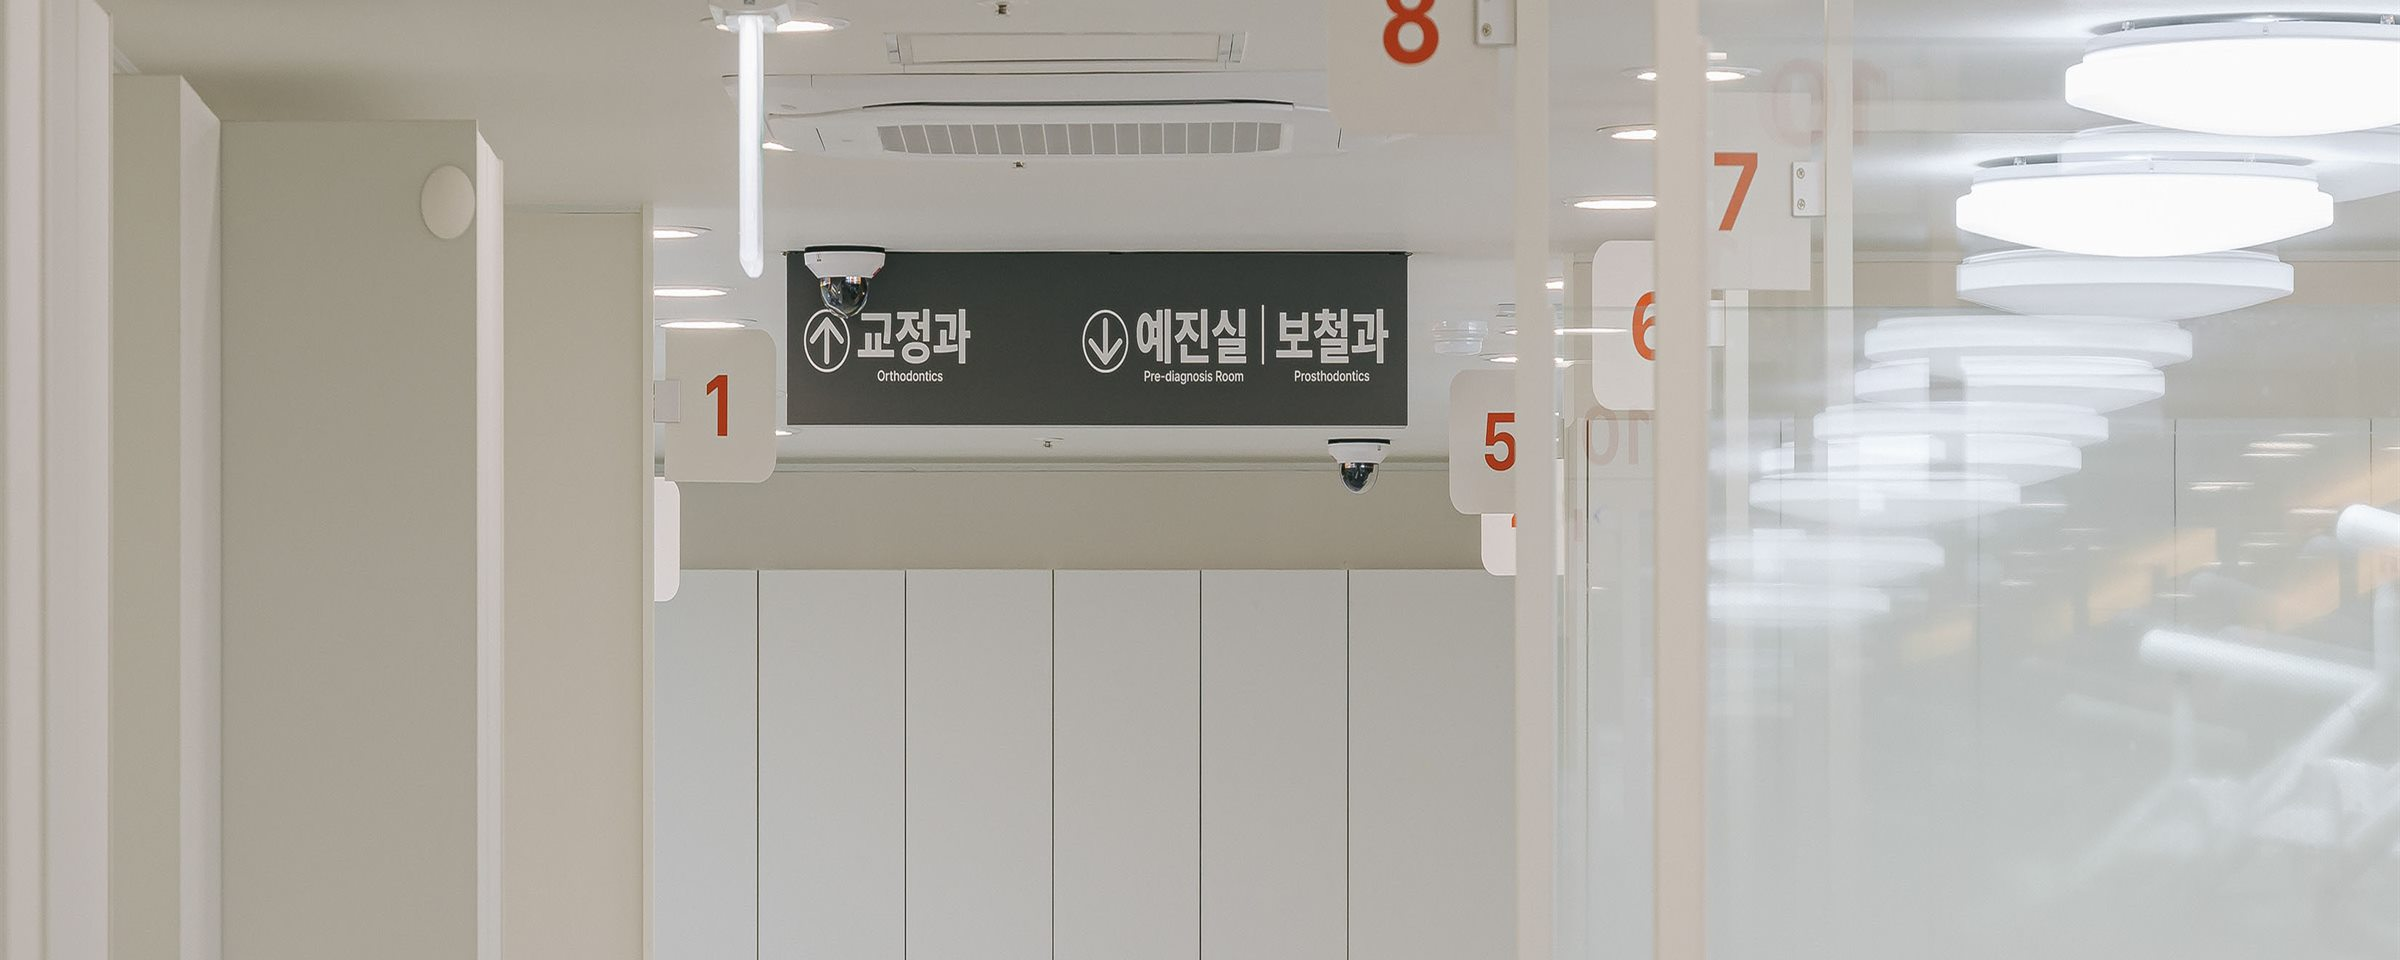
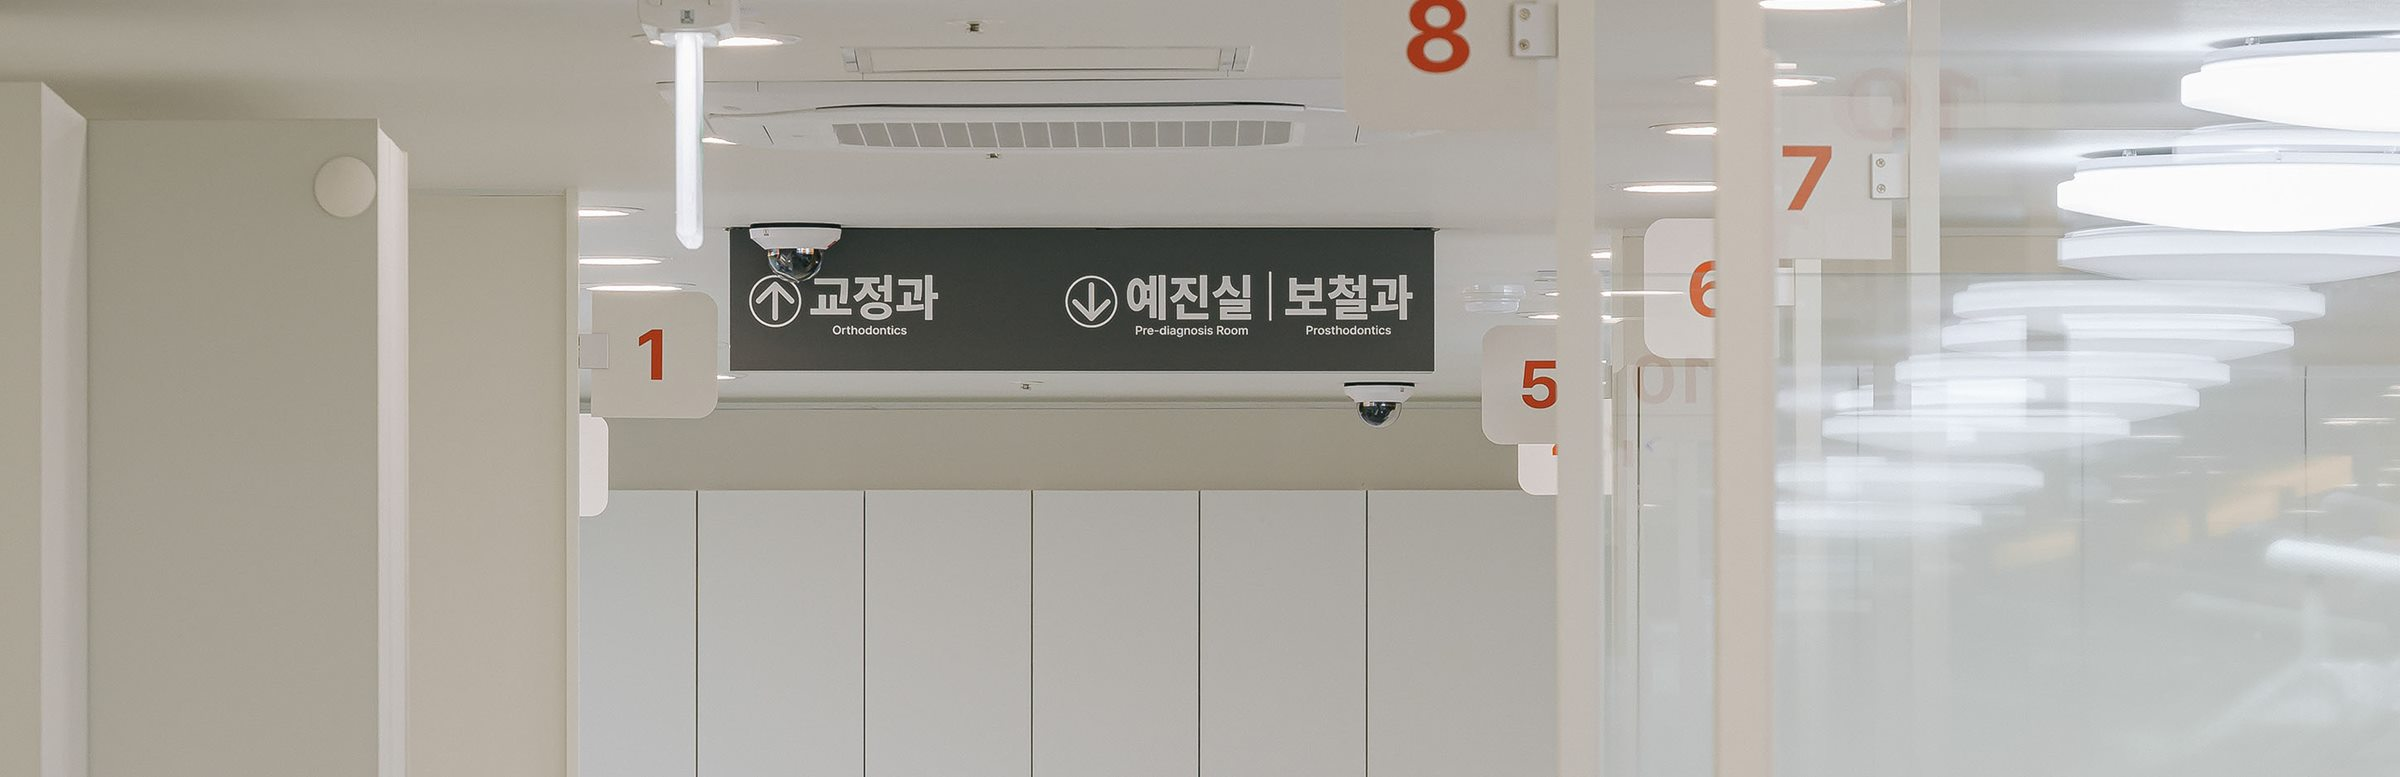
병원소개 배너 구도를 참고 이미지(자료/서브/Rectangle 1682.png)대로: 2400x777(약 3.1:1)로 다시 자름

diff --git a/assets/css/sub.css b/assets/css/sub.css
@@ -7,7 +7,7 @@
 /* 서브 배너 사진 = 모든 페이지 공통 1장 assets/images/banner-sub.jpg — 실제 사진을 같은 이름으로 넣으면 전체가 바뀐다 (페이지별 지정 없음)
    페이지마다 다른 것은 영문 라벨·슬로건·본문 제목뿐. 어두운 막(::after)·위쪽 그라데이션(common.css .has-lnb .sub-visual--image::before)도 한 값 */
 .sub-visual__bg { position: absolute; inset: 0; background: url("../images/banner-sub.jpg") center / cover no-repeat; }
-.sub-visual__bg--clinic { background-image: url("../images/banner-clinic.jpg"); } /* 예외: 병원소개만 마산점 진료실 통로 사진(240307_MED_0163, 세로 사진에서 가로 띠로 자름). 어두운 막·위쪽 그라데이션은 공통 값 그대로 */
+.sub-visual__bg--clinic { background-image: url("../images/banner-clinic.jpg"); } /* 예외: 병원소개만 마산점 진료실 통로 사진(240307_MED_0163, 세로 사진에서 참고 이미지 Rectangle 1682 구도대로 가로 띠 2400×777 로 자름). 어두운 막·위쪽 그라데이션은 공통 값 그대로 */
 .sub-visual__bg::after { content: ""; position: absolute; inset: 0; background: linear-gradient(180deg, rgba(10, 10, 10, 0.55), rgba(10, 10, 10, 0.75)); }
 .sub-visual--image .container { position: relative; }
 .sub-visual__copy { margin-bottom: 12px; font-size: var(--fs-lg); opacity: 0.9; word-break: keep-all; }

diff --git a/assets/images/README.md b/assets/images/README.md
@@ -34,7 +34,7 @@
 | `news-dummy-01~04.jpg` | 치과소식 더미 썸네일 (실데이터 연결 시 삭제) | 750×870 |
 | `branch-bar-bg.jpg` | 하단 지점 바로가기 배경 (데스크 전경) | 1920×640 |
 | `banner-sub.jpg` | **서브페이지 상단 배너 공통 1장** (치과소개·의료진 소개·병원소개·진료과목 5) — 같은 이름으로 실제 원내 사진을 넣으면 전체 교체. 지금은 임시 스톡(Pexels 8459996, 대기실·복도, 1920×1280) — 가로 2400px 이상 원내 전경으로 교체 권장 (docs/HANDOVER.md) | 2400×1600 이상 |
-| `banner-clinic.jpg` | **병원소개 배너만** (about/clinic.html) — 마산점 진료실 통로(240307_MED_0163) 세로 사진에서 가로 띠(2400×960)로 자른 것. 바꾸려면 같은 이름으로 교체, 지우면 `sub.css` `.sub-visual__bg--clinic` 도 지워 공통 배너로 | 2400×960 |
+| `banner-clinic.jpg` | **병원소개 배너만** (about/clinic.html) — 마산점 진료실 통로(240307_MED_0163) 세로 사진에서 참고 이미지(자료/서브/Rectangle 1682.png) 구도대로 가로 띠(2400×777, 약 3.1:1)로 자른 것. 바꾸려면 같은 이름으로 교체, 지우면 `sub.css` `.sub-visual__bg--clinic` 도 지워 공통 배너로 | 2400×777 |
 | `tour-changwon-01~06.jpg`, `tour-masan-01~06.jpg` | 병원소개(about/clinic.html) ②내부 둘러보기 갤러리 (개수·캡션은 `assets/js/site-data.js` 의 `tour`). **실제 사진 적용(2026-11-05, 긴 변 최대 2000px)** — 창원점·마산점 각 6장 | 1400×1050 (4:3) 이상 |
 | `icons/quick-implant.png`, `quick-orthodontics.png`, `quick-general.png`, `quick-wisdom-scaling.png`, `quick-aesthetic.png` | 홈 퀵바(빠른 진료 안내) 아이콘 — 투명 PNG. 바꿀 때 index.html 의 width·height·`--h`(원본 높이)도 함께 수정 | 원본 크기 그대로(현재 1배) · 2배 크기 또는 SVG 권장 |
 | `icons/naver-blog.png` | 퀵메뉴(오른쪽 플로팅 블로그 버튼·모바일 + 메뉴) 블로그 아이콘 — 네이버 블로그 말풍선, 투명 PNG 129×120 (제공 원본 "네이버 AI-06.png" 여백 잘라 축소). 표시 높이 19~24px | 바꿀 때 components/quick.html 의 width·height 도 함께 수정 |
